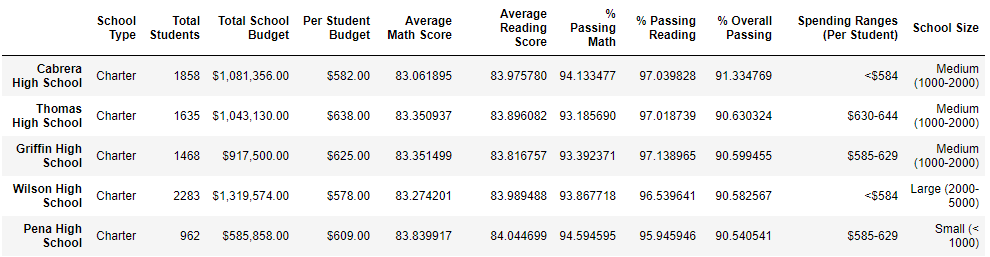
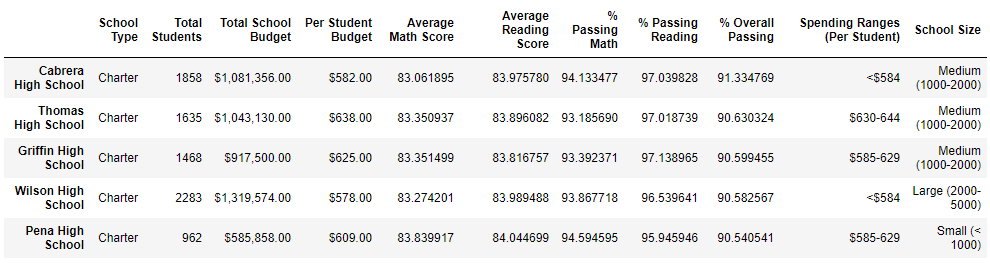
modified ReadMe file.

diff --git a/README.md b/README.md
@@ -33,9 +33,12 @@ The purpose of this analysis was to recalculate the values and columns in the or
     - ![](https://github.com/irenedepacina/School_District_Analysis/blob/main/Resources/school_summary_old.png)
     - ![](https://github.com/irenedepacina/School_District_Analysis/blob/main/Resources/school_summary_new.png)
 - How does replacing the ninth graders' math and reading scores affect Thomas High School's performance relative to the other schools?
-    - Replacing the ninth graders' math and reading scores does not affect the Thomas High School's performance relative to the other schools. According to the school rankings, Thomas High School still sits at 2nd place regardless if the ninth grade scores are included in the dataset. 
+    - Replacing the ninth graders' math and reading scores does not affect the Thomas High School's performance relative to the other schools. According to the school rankings, Thomas High School now sits at 2nd place when the ninth grade scores are replaced in the dataset. In the original data, Thomas High School was not in the top 5 schools. 
     - ![](https://github.com/irenedepacina/School_District_Analysis/blob/main/Resources/top_5_old.png)
     - ![](https://github.com/irenedepacina/School_District_Analysis/blob/main/Resources/top_5_new.png)
+    - Below are the bottom 5 performing schools based on overall passing rate. The results remain unchanged.
+    - ![](https://github.com/irenedepacina/School_District_Analysis/blob/main/Resources/bottom_5_old.png)
+    - ![](https://github.com/irenedepacina/School_District_Analysis/blob/main/Resources/bottom_5_new.png)
 - How does replacing the ninth-grade scores affect the following - included are before and after images of the tables:
     - Math and reading scores by grade
         - The ninth grade and Thomas High School cell is denoted with a NaN. That is the only difference. However, the math and reading scores for grades 10-12 are unchanged because they are dependent on variables that are not attributed to the ninth grade math and reading scores.
@@ -57,6 +60,6 @@ The purpose of this analysis was to recalculate the values and columns in the or
 ## Summary
 Four major changes to the school district analysis after the reading and the math scores had been replaced:
 1. The percentage of passing math, reading and overall was a major change. By replacing the ninth graders as null, it was required to calculcate the total ninth grades students from Thomas High School and subtract that value from the total student count across all the schools. The new student count changed the percentages mentioned above because the denominator changed causing a decrease in the district summary.
-2. The distrct summary saw a decrease in the percentages.
+2. The distrct summary saw a decrease in the percentages. The metrics Average Math Score, % Passing Math, % Passing Reading, % Overall Passing decreased by 0.1%, 0.2%, 0.1%, and 0.3% respectively.
 3. The math and reading scores by grade tables output NaN in the ninth grade and Thomas High School cell.
-4. The school summary saw a decrease in the percentages.
+4. The school summary saw a decrease in most percentages. The metrics Average Math Score, % Passing Math, % Passing Reading, % Overall Passing decreased by 0.067%, 0.086%, 0.290%, and 0.318% respectively. There was an increase in Average Reading Score by 0.407%.
